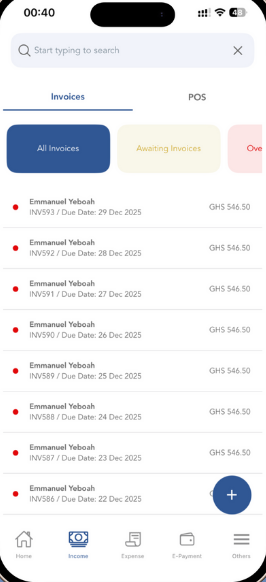
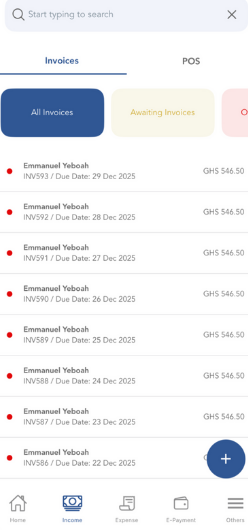
content: tighten Alvi scope and clean screen crops

diff --git a/src/content/projects/alvi-beauty.md b/src/content/projects/alvi-beauty.md
@@ -35,10 +35,8 @@ gallery:
   - '/portfolio/alvibeauty-2.jpg'
 oneLine: 'Backend and architecture for a beauty booking product across four apps and the web.'
 built:
-  - 'Mobile apps'
-  - 'Web app'
   - 'API'
-  - 'Admin'
+  - 'Backend architecture'
 engagement: 'team'
 brandColor: '#e24f48'
 onBrand: 'dark'
